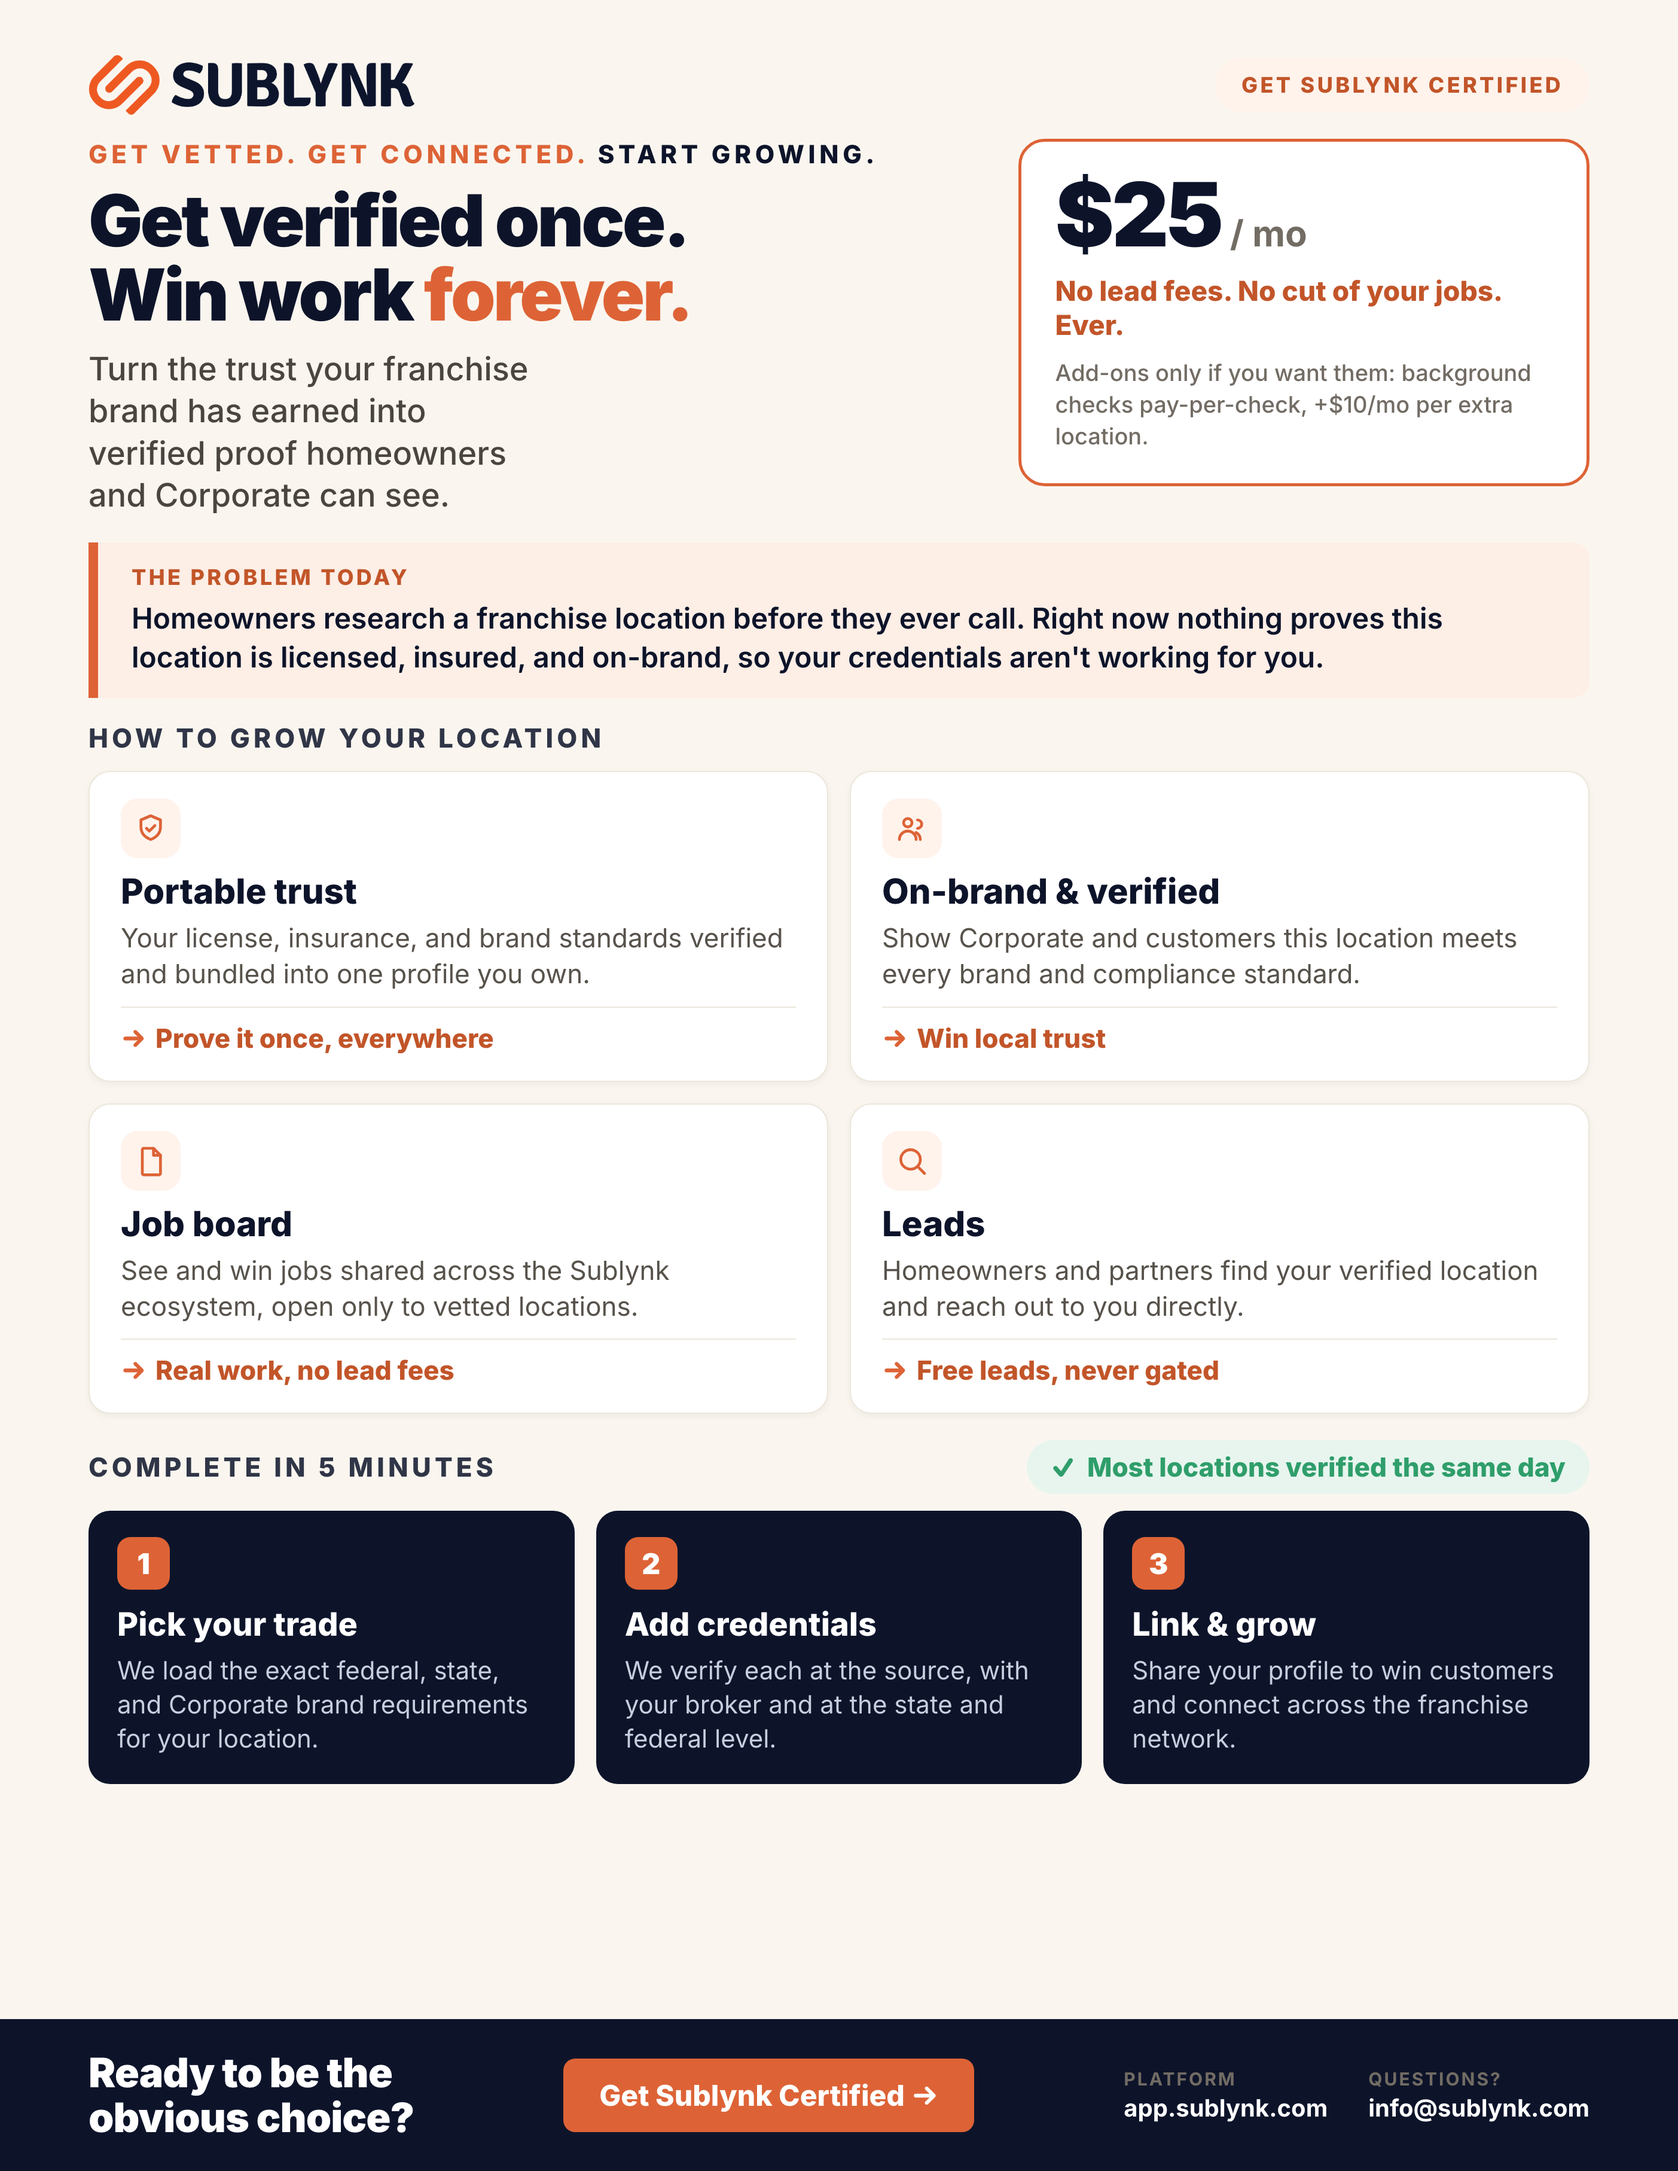
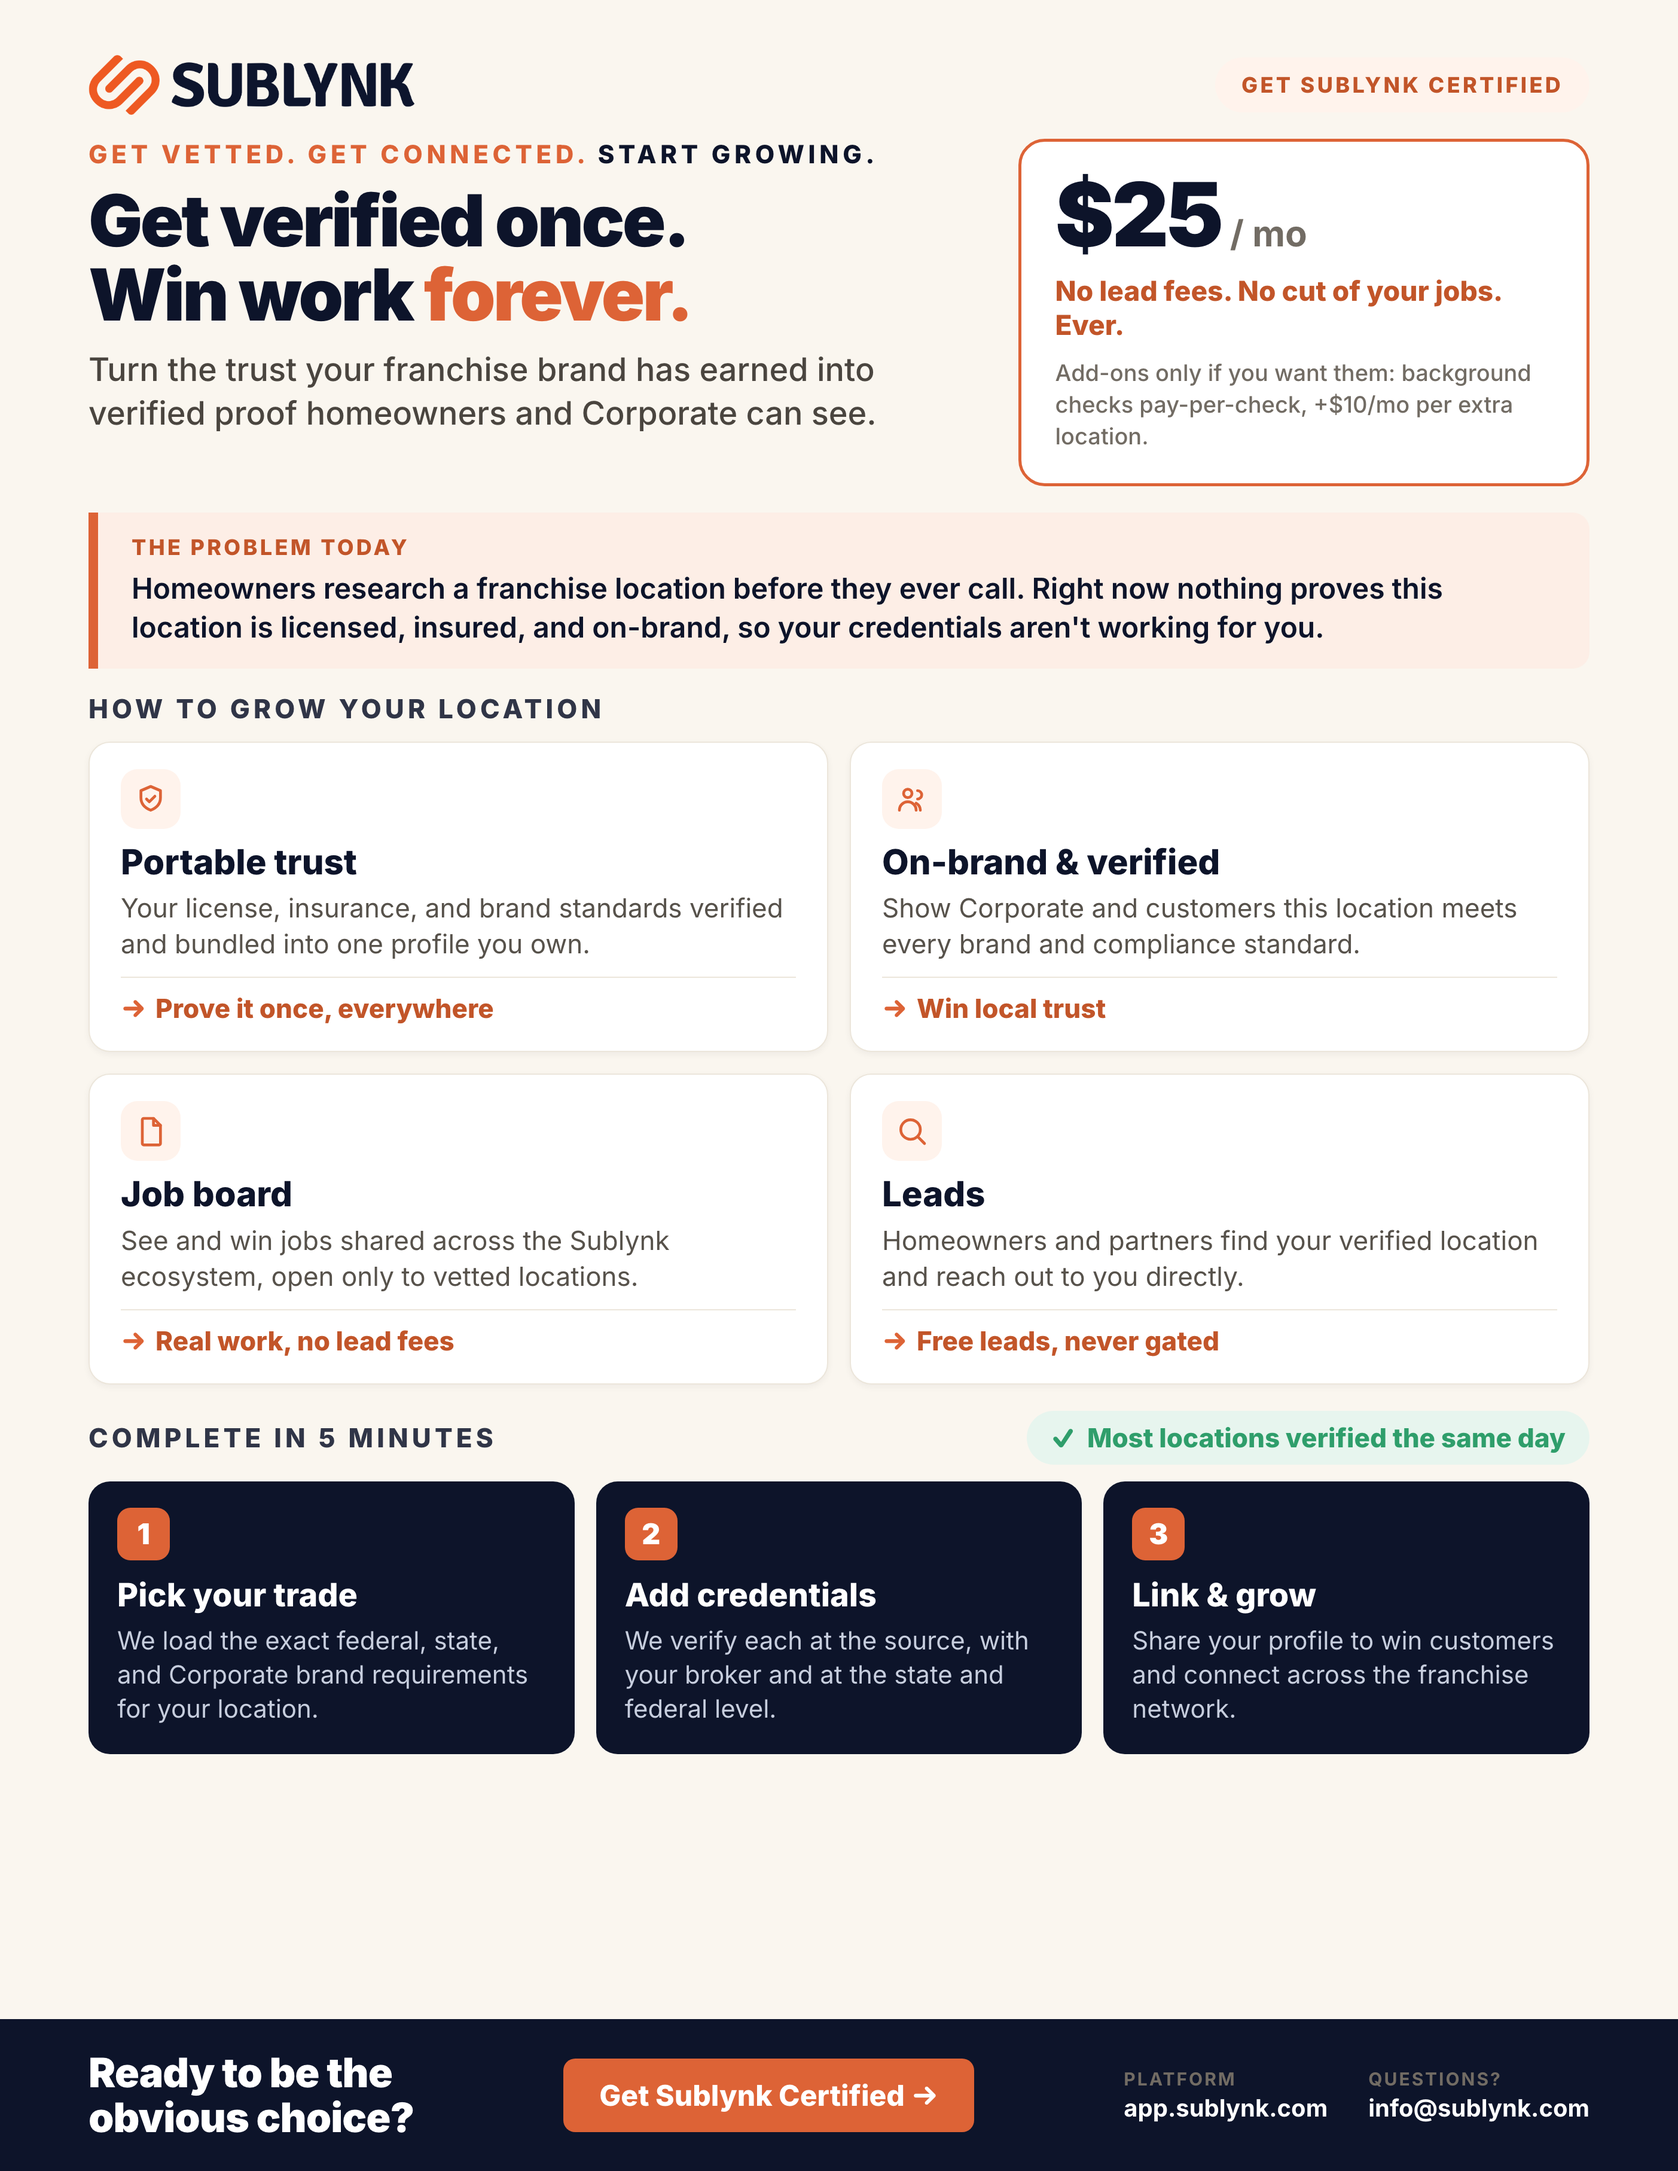
Franchise flipbook: balance header subhead (pages 1-3)
Subhead was capped at max-width:22ch, scrunching the copy into a narrow
strip left of the price box. Widened to 42ch so it fills the left column
and balances against the price box.

diff --git a/grow-franchise/_src/01-franchisee-certified.html b/grow-franchise/_src/01-franchisee-certified.html
@@ -14,7 +14,7 @@ html,body{width:1403px;height:1815px;font-family:'Inter',-apple-system,BlinkMacS
 .tag b{color:var(--navy);font-weight:800}
 h1.hl{font-size:60px;font-weight:900;line-height:1.03;letter-spacing:-2px;color:var(--navy);margin:12px 0 0}
 h1.hl span{color:var(--orange)}
-.sub{font-size:27px;font-weight:500;line-height:1.3;color:#4a453f;margin-top:14px;max-width:22ch}
+.sub{font-size:27px;font-weight:500;line-height:1.34;color:#4a453f;margin-top:14px;max-width:42ch}
 .badge{background:var(--soft);color:var(--orange-d);font-size:18px;font-weight:800;letter-spacing:.12em;text-transform:uppercase;
   padding:12px 22px;border-radius:30px;white-space:nowrap}
 /* pricebox */

diff --git a/grow-franchise/_src/02-franchisee.html b/grow-franchise/_src/02-franchisee.html
@@ -14,7 +14,7 @@ html,body{width:1403px;height:1815px;font-family:'Inter',-apple-system,BlinkMacS
 .tag b{color:var(--navy);font-weight:800}
 h1.hl{font-size:60px;font-weight:900;line-height:1.03;letter-spacing:-2px;color:var(--navy);margin:12px 0 0}
 h1.hl span{color:var(--orange)}
-.sub{font-size:27px;font-weight:500;line-height:1.3;color:#4a453f;margin-top:14px;max-width:22ch}
+.sub{font-size:27px;font-weight:500;line-height:1.34;color:#4a453f;margin-top:14px;max-width:42ch}
 .badge{background:var(--soft);color:var(--orange-d);font-size:18px;font-weight:800;letter-spacing:.12em;text-transform:uppercase;
   padding:12px 22px;border-radius:30px;white-space:nowrap}
 /* pricebox */

diff --git a/grow-franchise/_src/03-franchisor-management.html b/grow-franchise/_src/03-franchisor-management.html
@@ -14,7 +14,7 @@ html,body{width:1403px;height:1815px;font-family:'Inter',-apple-system,BlinkMacS
 .tag b{color:var(--navy);font-weight:800}
 h1.hl{font-size:60px;font-weight:900;line-height:1.03;letter-spacing:-2px;color:var(--navy);margin:12px 0 0}
 h1.hl span{color:var(--orange)}
-.sub{font-size:27px;font-weight:500;line-height:1.3;color:#4a453f;margin-top:14px;max-width:22ch}
+.sub{font-size:27px;font-weight:500;line-height:1.34;color:#4a453f;margin-top:14px;max-width:42ch}
 .badge{background:var(--soft);color:var(--orange-d);font-size:18px;font-weight:800;letter-spacing:.12em;text-transform:uppercase;
   padding:12px 22px;border-radius:30px;white-space:nowrap}
 /* pricebox */

diff --git a/grow-franchise/_src/build_pages.py b/grow-franchise/_src/build_pages.py
@@ -20,7 +20,7 @@ html,body{width:1403px;height:1815px;font-family:'Inter',-apple-system,BlinkMacS
 .tag b{color:var(--navy);font-weight:800}
 h1.hl{font-size:60px;font-weight:900;line-height:1.03;letter-spacing:-2px;color:var(--navy);margin:12px 0 0}
 h1.hl span{color:var(--orange)}
-.sub{font-size:27px;font-weight:500;line-height:1.3;color:#4a453f;margin-top:14px;max-width:22ch}
+.sub{font-size:27px;font-weight:500;line-height:1.34;color:#4a453f;margin-top:14px;max-width:42ch}
 .badge{background:var(--soft);color:var(--orange-d);font-size:18px;font-weight:800;letter-spacing:.12em;text-transform:uppercase;
   padding:12px 22px;border-radius:30px;white-space:nowrap}
 /* pricebox */
